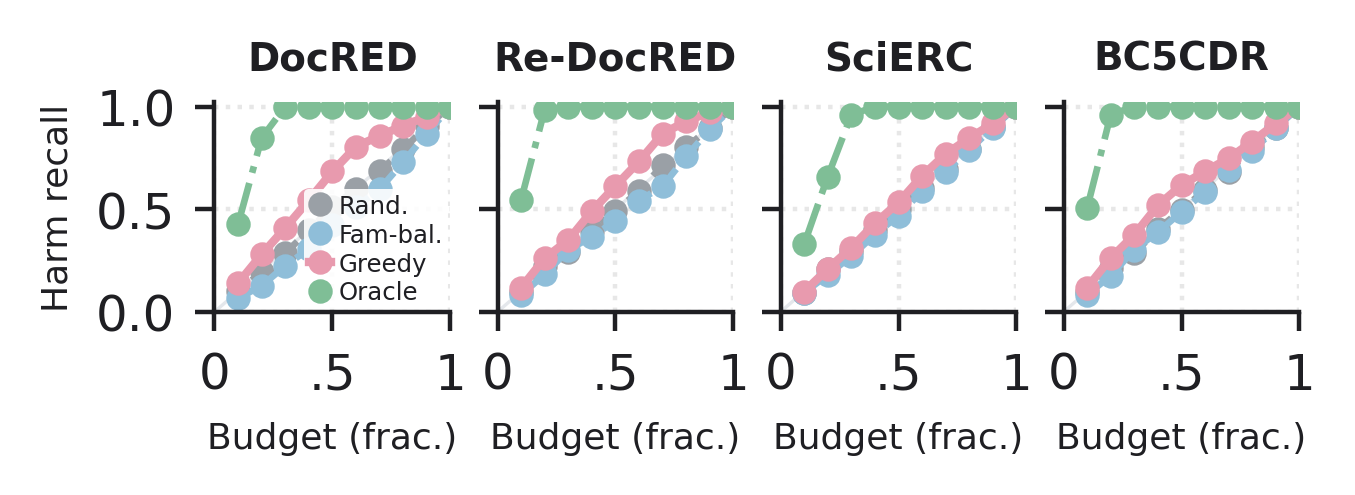
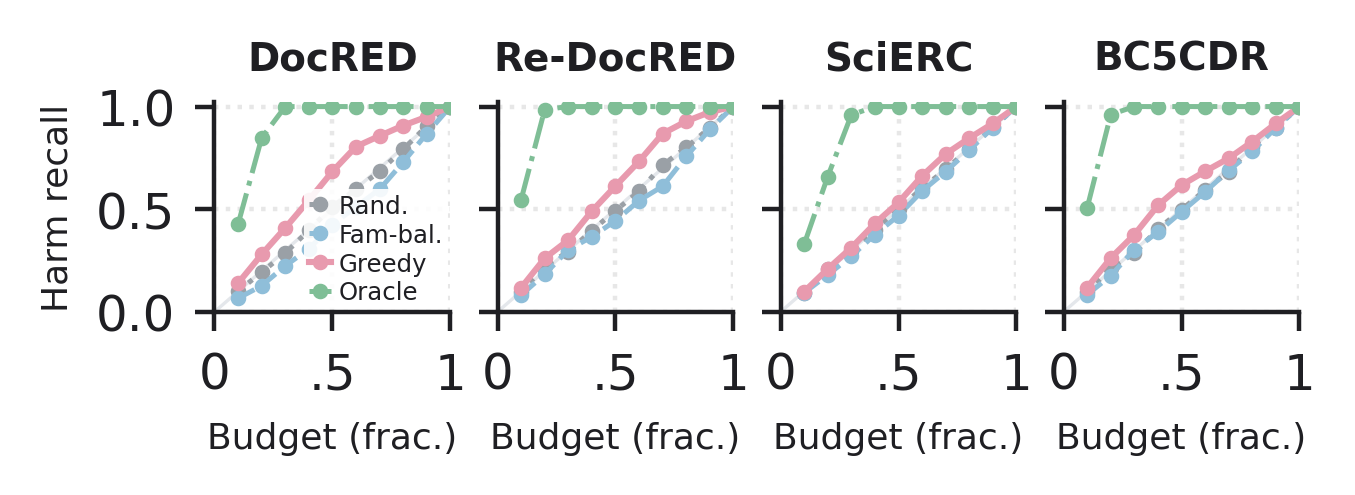
figs: thinner lines and smaller markers in budget-planner curves

diff --git a/scripts/run_budget_planner.py b/scripts/run_budget_planner.py
@@ -155,12 +155,12 @@ def main():
         local_handles = []
         local_labels = []
         for m, label, kw in [
-            ("random",   "Random",         dict(color=gg_style.GRAY,       ls=":",  lw=1.2)),
-            ("balanced", "Family-bal.",    dict(color=gg_style.BLUE_DARK,  ls="--", lw=1.2)),
-            ("greedy",   "Greedy",         dict(color=gg_style.PINK_DARK,            lw=1.5)),
-            ("oracle",   "Oracle (UB)",    dict(color=gg_style.GREEN_DARK, ls="-.", lw=1.2)),
+            ("random",   "Random",         dict(color=gg_style.GRAY,       ls=":",  lw=0.9)),
+            ("balanced", "Family-bal.",    dict(color=gg_style.BLUE_DARK,  ls="--", lw=0.9)),
+            ("greedy",   "Greedy",         dict(color=gg_style.PINK_DARK,            lw=1.1)),
+            ("oracle",   "Oracle (UB)",    dict(color=gg_style.GREEN_DARK, ls="-.", lw=0.9)),
         ]:
-            (ln,) = ax.plot(BUDGETS, r[m], marker="o", markersize=3.4, **kw)
+            (ln,) = ax.plot(BUDGETS, r[m], marker="o", markersize=1.8, **kw)
             local_handles.append(ln); local_labels.append(label)
         if line_handles is None:
             line_handles, line_labels = local_handles, local_labels
